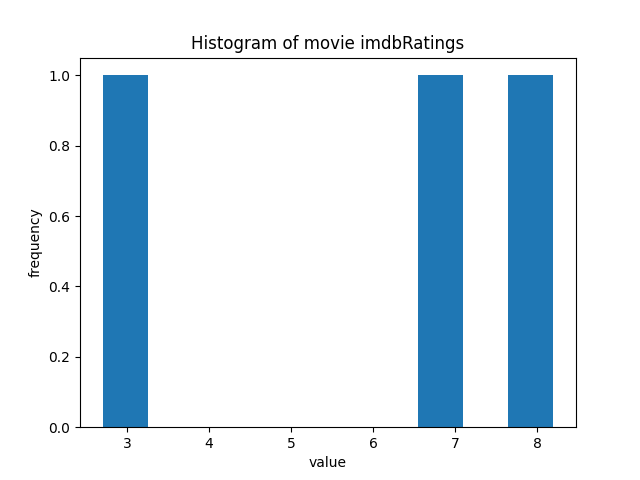
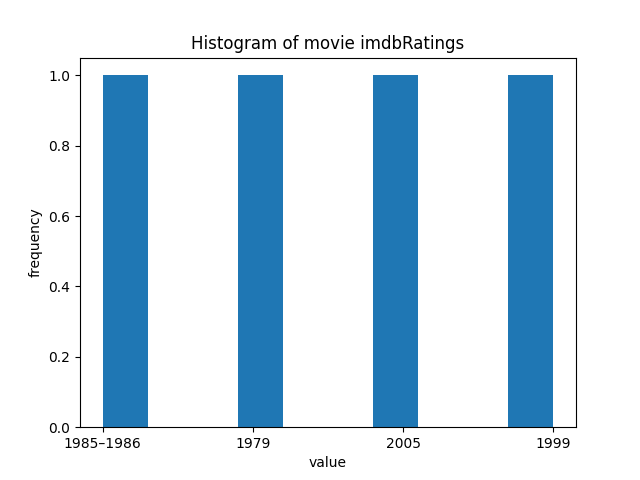
All features now work for both SQL as JSON based storage

diff --git a/Movie_Project/Movie_Project_Ph2/main.py b/Movie_Project/Movie_Project_Ph2/main.py
@@ -651,12 +651,12 @@ def command_show_stats():
         worst_movie = ""
         best_movie = ""
         for movie in movies:
-            if movie[4] == min_rating:
+            if movie[5] == min_rating:
                 # in case 2 or more movies have the worst imdbRating
-                worst_movie += movie[2] + " + "
-            if movie[4] == max_rating:
+                worst_movie += movie[3] + " + "
+            if movie[5] == max_rating:
                 # in case 2 or more movies have the best imdbRating
-                best_movie += movie[2] + " + "
+                best_movie += movie[3] + " + "
         if best_movie == "":
             best_movie = "Not found + "
         if worst_movie == "":
@@ -671,7 +671,7 @@ def command_show_stats():
     rating_list = []
     movies = ms.fetch_all_movies()
     for movie in movies:
-        rating_list.append(movie[4])
+        rating_list.append(movie[5])
     # print(BColors.LISTING + f"Rating_list: {rating_list}" + BColors.ENDC)
     average_rating = statistics.mean(rating_list)
     median_rating = statistics.median(rating_list)
@@ -696,8 +696,8 @@ def command_random_movie() -> tuple:
     movies = ms.fetch_all_movies()
     random_movie = random.choice(movies)
     print(BColors.LISTING + f"Your movie for tonight: {
-            random_movie[2]}, it's rated {
-            random_movie[4]}.")
+            random_movie[3]}, it's rated {
+            random_movie[5]}.")
     return random_movie
 
 
@@ -769,7 +769,7 @@ def command_sort_by_rating(direction: str = "descending") -> list:
 
     descending = direction == "descending"
     # same as if direction == "descending": descending = True else False
-    sorted_list = sorted(movie_list, key=lambda tup: tup[4], reverse=descending)
+    sorted_list = sorted(movie_list, key=lambda tup: tup[5], reverse=descending)
     print(
         BColors.LISTING
         + f"Showing you now all movies in the DB for {CURRENT_USERNAME} sorted by rating in {direction}"

diff --git a/Movie_Project/Movie_Project_Ph2/web_generator.py b/Movie_Project/Movie_Project_Ph2/web_generator.py
@@ -53,8 +53,8 @@ def generate_grid(movies: list):  # A list of tuples with the movies
     grid = ""
 
     for movie in movies:
-        if movie[7] is not None:  # if there is a country for the movie
-            countries = movie[7].split(
+        if movie[8] is not None:  # if there is a country for the movie
+            countries = movie[8].split(
                 ","
             )  # in case there are multiple countries for a movie, we take both countries
             country_codes = []
@@ -63,8 +63,8 @@ def generate_grid(movies: list):  # A list of tuples with the movies
         grid += f"""
             <li>
             <div class="movie">
-                <a href="https://www.imdb.com/title/{movie[1]}/" target="_blank">
-                <img class="movie-poster" title="{movie[6]}" src="{movie[5]}" alt="{movie[2]} poster">
+                <a href="https://www.imdb.com/title/{movie[2]}/" target="_blank">
+                <img class="movie-poster" title="{movie[7]}" src="{movie[6]}" alt="{movie[7]} poster">
                 </a>
                 """
         for country_code in country_codes:
@@ -72,14 +72,13 @@ def generate_grid(movies: list):  # A list of tuples with the movies
                 <img class="flag" src="https://flagsapi.com/{country_code.upper()}/shiny/64.png" alt="{country_code.upper()} flag">
                 """
         grid += f"""
-                <div class="movie-title">{movie[2]}</div>
-                <div class="movie-year">{movie[3]}</div>
-                <div class="movie-rating">IMDB-Rating: {movie[4]}</div>
+                <div class="movie-title">{movie[3]}</div>
+                <div class="movie-year">{movie[4]}</div>
+                <div class="movie-rating">IMDB-Rating: {movie[5]}</div>
                 </div>
                 </li>
             """
     return grid
-
 
 def generate_website(movies, username) -> str:
     """

diff --git a/Movie_Project/Movie_Project_Ph2/movie_storage_sql.py b/Movie_Project/Movie_Project_Ph2/movie_storage_sql.py
@@ -90,9 +90,7 @@ def fetch_movies(user_id: int):
             {"user_id": user_id},
         )
         movies = result.fetchall()
-    print("type returned by fetch_movies", type(movies))
-    print("type within movies of fetch_movies: ", type(movies[0]))
-    print("Movies from fetch_movies", movies)
+
     return movies
 
 

diff --git a/Movie_Project/Movie_Project_Ph2/movie_storage.py b/Movie_Project/Movie_Project_Ph2/movie_storage.py
@@ -4,7 +4,7 @@ import movie_storage_json as msj
 STORAGE = {"SQL" : "SQL",
            "JSON" : "JSON"
            }
-SELECTED_STORAGE = STORAGE["SQL"]
+SELECTED_STORAGE = STORAGE["JSON"]
 
 
 def fetch_all_movies():